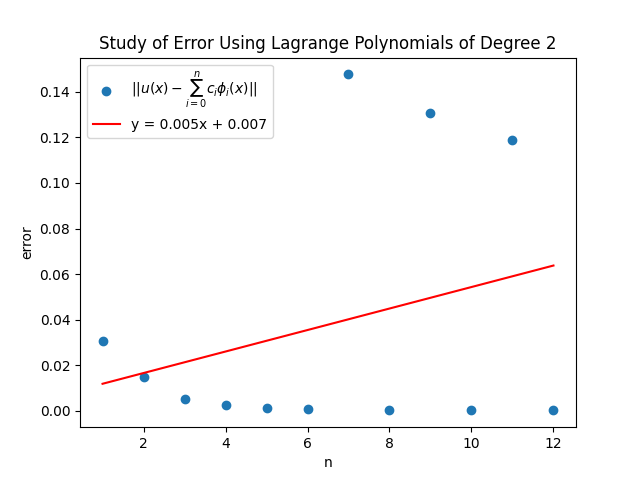
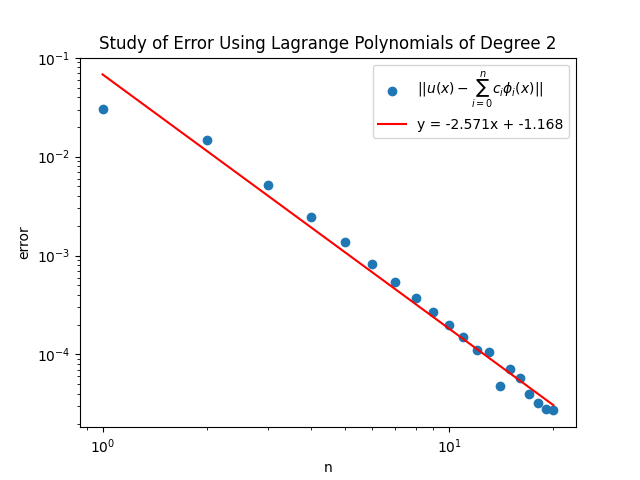
Finished code, changed lambda functions to sympy functions.

diff --git a/lagrange_projection.py b/lagrange_projection.py
@@ -1,36 +1,33 @@
 import numpy as np
 import matplotlib.pyplot as plt
-from scipy.integrate import quad
 import sympy as sym
+import scipy
 import time
 
-def u(x):
-    return np.sin(x)
-
 def plotPhis(phis, a, b):
-    plt.clf()
+    x = sym.symbols('x')
     x_values = np.linspace(a, b, 500)
-    for i in range(len(phis)):
-        y = [phis[i](xi) for xi in x_values]
-        plt.plot(x_values, y, label=f'$\phi_{i}$')
+    n = len(phis)
+    for i in range(n):
+        plt.plot(x_values, sym.lambdify(x, phis[i])(x_values), label=f'$\phi_{i}$')
     plt.legend()
     plt.show()
+
+def dotProduct(f1, f2, a, b):
+    x = sym.symbols('x')
+    integrand = f1* f2
+    return sym.integrate(integrand, (x, a, b)).evalf()
 
 def phi_i(x, i, Omega_j):
     x_min = Omega_j[0]
     x_max = Omega_j[-1]
-    if x_min <= x and x <= x_max:
-        p = 1
-        n = len(Omega_j)
-        for k in range(n):
-            if k != i: p *= (x - Omega_j[k])/(Omega_j[i] - Omega_j[k])
-        return p
-    else:
-        return 0
-    
-def dotProduct(f1, f2, a, b):
-    return quad(lambda x: f1(x) * f2(x), a, b)[0]
-    
+    n = len(Omega_j)
+    p = 1
+    for k in range(n):
+        if k != i:
+            p *= (x - Omega_j[k]) / (Omega_j[i] - Omega_j[k])
+    return sym.Piecewise((sym.simplify(p), sym.And(x >= x_min, x <= x_max)), (0, True))
+
 def lagrangeBasis(p_degree, n_Omegas, a, b):
     n_points = p_degree * n_Omegas + 1
     points = np.linspace(a,b, n_points)
@@ -39,69 +36,102 @@ def lagrangeBasis(p_degree, n_Omegas, a, b):
         omega = points[i*p_degree : (i+1)*p_degree+1]
         Omegas.append(omega)
     phis_dict = {}
+    x = sym.symbols('x')
     for j in range(len(Omegas)):
         Omega_j = Omegas[j]
         for k in range(len(Omega_j)):
-            x = Omega_j[k]
-            phi = lambda x, Omega_j=Omega_j, k=k: phi_i(x, k, Omega_j)
-            if x in phis_dict:
-                phis_dict[x].append(phi)
+            x_val = Omega_j[k]
+            phi = phi_i(x, k, Omega_j)
+            if x_val in phis_dict:
+                phis_dict[x_val].append(phi)
             else:
-                phis_dict[x] = [phi]
+                phis_dict[x_val] = [phi]
     phis = []
-    for x_i, phi_list in phis_dict.items():
+    for x_val, phi_list in phis_dict.items():
         phi_sum = None
         if len(phi_list) == 1:
             phis.append(phi_list[0])
         else:
             phi_sum = phi_list[0]
             for i in range(1, len(phi_list)):
-                phi_sum = lambda x, f=phi_sum, g=phi_list[i]: f(x) + g(x)
+                phi_sum += phi_list[i]
             phis.append(phi_sum)
     return phis
 
-def lagrangeProjection(p_degree, n_Omegas, a, b):
+def calculateSubmatrix(p_degree, phis, a, b):
+    p_degree += 1
+    A = np.zeros((p_degree, p_degree), dtype=float)
+    for i in range(p_degree):
+        for j in range(i, p_degree):
+            A[i][j] = A[j][i] = dotProduct(phis[i], phis[j], a, b)
+    A[p_degree-1][p_degree-1] = A[0][0]
+    return A
+
+def lagrangeProjection(u, p_degree, n_Omegas, a, b):
     n_points = p_degree * n_Omegas + 1
+    x = sym.symbols('x')
+    start = time.time()
     phis = lagrangeBasis(p_degree, n_Omegas, a, b)
+    end = time.time()
+    print("Tiempo de ejecucion calculo de phis:", end - start)
     #plotPhis(phis, a, b)
+    start = time.time()
     B = np.zeros(n_points, dtype=float)
-    A = np.zeros((n_points, n_points), dtype=float)
     for i in range(n_points):
         B[i] = dotProduct(u, phis[i], a, b)
-        for j in range(i, n_points):
-            A[i][j] = A[j][i] = dotProduct(phis[i], phis[j], a, b)
+    A = np.zeros((n_points, n_points), dtype=float)
+    submatrix = calculateSubmatrix(p_degree, phis, a, b)
+    l = 0
+    for i in range(n_Omegas):
+        l = i * p_degree
+        A[l:l+p_degree+1, l:l+p_degree+1] += submatrix
+    end = time.time()
+    print("Tiempo de ejecucion llenado de matriz A y vector B:", end - start)
+    print("Condicion de la matriz A", np.linalg.cond(A))
     C = np.linalg.solve(A, B)
-    y_proj = lambda x: sum([C[i] * phis[i](x) for i in range(n_points)])
+    y_proj = sum(C[i]*phis[i] for i in range(n_points))
     return y_proj
 
-def testMethod(p_degree, n_Omegas, a, b):
-    y_proj = lagrangeProjection(p_degree, n_Omegas, a, b)
+def testMethod(u, p_degree, n_Omegas, a, b):
+    f_hat = lagrangeProjection(u, p_degree, n_Omegas, a, b)
+    x = sym.symbols('x')
     x_values = np.linspace(a, b, 1000)
-    y_u = [u(x_i) for x_i in x_values]
-    y_proj = [y_proj(x_i) for x_i in x_values]
+    y_u = sym.lambdify(x, u)(x_values)
+    y_proj = sym.lambdify(x, f_hat)(x_values)
     plt.figure(figsize=(8, 6))
     plt.plot(x_values, y_proj, label='$\sum^n_{i=0} c_i \phi_i(x)$')
     plt.plot(x_values, y_u, label='$u(x)$')
     plt.title(f'$u(x)$ projection using lagrange polynomials of degree {p_degree} and {n_Omegas} $\Omega_i$ intervals')
     plt.legend()
-    plt.show()
+    plt.savefig("example.png")
 
-def errorStudy(p_degree, a, b, n_max):
-    n_array = [x for x in range(1, n_max)]
+def errorStudy(u, p_degree, a, b, n_max):
+    n_array = [x for x in range(1, n_max+1)]
     errors = []
     for n in n_array:
-        y_proj = lagrangeProjection(p_degree, n, a, b)
-        e = np.sqrt(quad(lambda x: (u(x) - y_proj(x))**2, a, b, limit=100)[0])
-        errors.append(e)
-    p = np.polyfit(n_array, errors, 1)
+        f_hat = lagrangeProjection(u, p_degree, n, a, b)
+        e = sym.lambdify([x], (f_hat - u)**2)
+        L2_norm = np.sqrt(scipy.integrate.quad(e, a, b)[0])
+        errors.append(L2_norm)
+    errors = np.array(errors)
+    n_array = np.array(n_array)
+    p = np.polyfit(np.log10(n_array), np.log10(errors), 1)
+    x_line = np.logspace(np.log10(n_array[0]), np.log10(n_array[-1]), 100)
+    y_line = 10**(p[1]) * x_line**(p[0])
+    print(f'La recta que minimiza los puntos es y = {p[0]:.3f}x + {p[1]:.3f}')
+    plt.clf()
     plt.scatter(n_array, errors, label='$|| u(x) - \sum^n_{i=0} c_i \phi_i(x)||$')
-    plt.plot(n_array, np.polyval(p, n_array), label=f'y = {p[0]:.3f}x + {p[1]:.3f}', color='red')
+    plt.plot(x_line, y_line, label=f'y = {p[0]:.3f}x + {p[1]:.3f}', color='red')
     plt.title(f'Study of Error Using Lagrange Polynomials of Degree {p_degree}')
     plt.xlabel('n')
     plt.ylabel('error')
     plt.yscale('log')
+    plt.xscale('log')
     plt.legend()
-    plt.show()
+    plt.savefig("errors.png")
 
-testMethod(p_degree=2, n_Omegas=6, a=0, b=np.pi)
-errorStudy(p_degree=2, a=0, b=np.pi, n_max=13)
+x = sym.symbols('x')
+u = sym.sin(x)
+
+#testMethod(u, p_degree=4, n_Omegas=10, a=0, b=np.pi)
+errorStudy(u, p_degree=2, a=0, b=np.pi, n_max=20)
